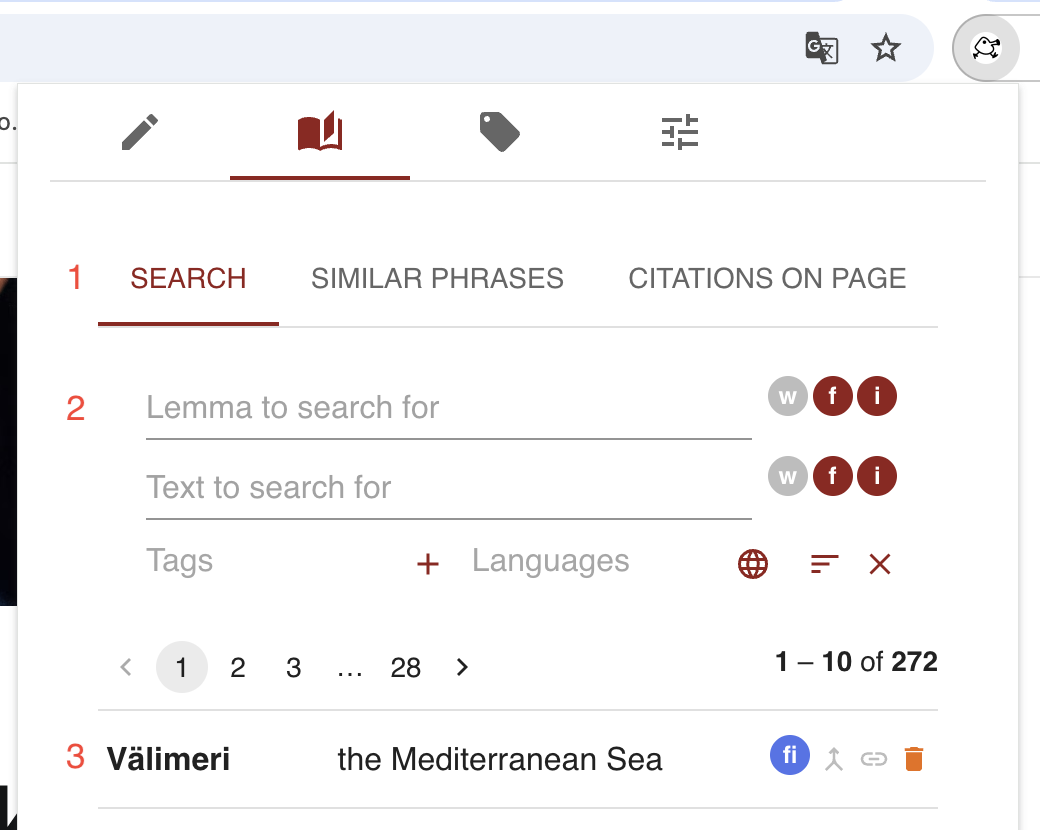
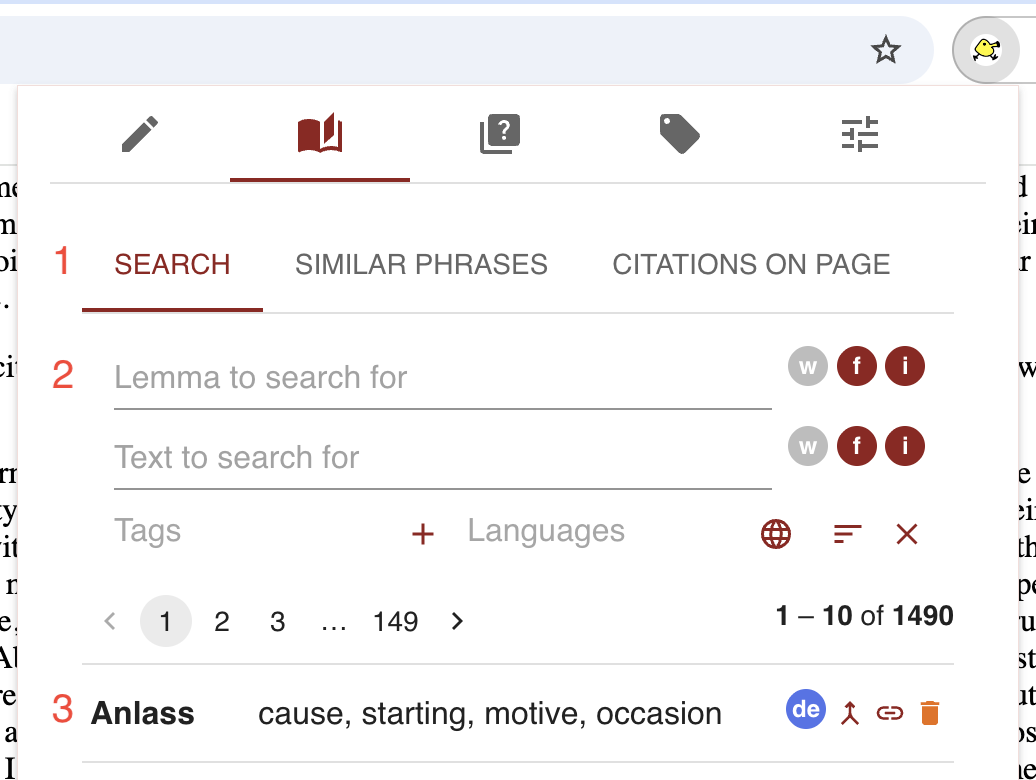
added yet more documentation

diff --git a/docs/index.html b/docs/index.html
@@ -91,6 +91,15 @@
       margin-left: 2px;
     }
 
+    dl {
+      margin-left: 1rem;
+
+      dt {
+        color: var(--secondary-dark);
+        font-weight: 600;
+      }
+    }
+
     code {
       background-color: bisque;
     }
@@ -692,8 +701,8 @@
       <p>
         The citation context is shown for the displayed citation. Its parts
         are enumerated in <a href="#note-figure">the figure</a>. These are the
-        title (7), the date the citation was recorded (8), the URL (9), and
-        the phrase itself and its surrounding text (10).
+        title (8), the date the citation was recorded (9), the URL (10), and
+        the phrase itself and its surrounding text (11).
       </p>
       <p>
         The title, date, and URL are displayed in abbreviation. If you hover
@@ -748,20 +757,8 @@
         <a href="#dictionary-figure">the figure</a>, there are three manners
         in which one may browse the dictionary (1): ad hoc search, by
         similarity to the current citation, and by page (URL). Every manner of
-        search has a form (2). Every search results in zero or more notes (3).
-      </p>
-      <p>
-        Each note in turn is represented by its lemma (4), its gloss (5),
-        its language (6), and some actions one may take: merge the note with
-        the current note &mdash; the note currently displayed in the
-        <a href="#note">note tab</a> &mdash; (7), link the note to the current
-        note (8), or delete the note (9).
-      </p>
-      <p>
-        If you click on a note in the dictionary, this will take you to the
-        <a href="#note">note tab</a>, where the note will be displayed. It is
-        now the current note, the note to which other notes displayed in the
-        dictionary may be merged or linked.
+        search has a form to receive the search parameters(2). Changing these parameters will cause Amanuensis to
+        execute a new search. Every search results in zero or more notes (3).
       </p>
       <figure id="results-figure">
         <img src="images/result.png" alt="a search result" />
@@ -770,19 +767,20 @@
           link; 6) delete
         </figcaption>
       </figure>
-      <h4>search results</h4>
       <p>
-        Every search produces some number of search results. These are basically
-        abbreviated notes. One may click on them to view them in full. See
-        <a href="#results-figure">the figure</a> for a sample search result.
-      </p>
-      <p>
-        In addition to the lemma, gloss, and locale, each results
-        provides a number of actions one may take: merge this note with the
-        note currently displayed in the <a href="#note">note tab</a>, link it
-        to that note, or delete it from the database. The more destructive of
+        Each note in the search results (<a href="#results-figure">the figure</a>) is in turn represented by its lemma
+        (1), its gloss (2), its language (3), and some actions one may take: merge the note with
+        the current note &mdash; the note currently displayed in the
+        <a href="#note">note tab</a> &mdash; (4), link the note to the current
+        note (5), or delete the note (6). The more destructive of
         these actions, merging and deletion, require confirmation and, in the
         case of merging, possible editing to complete.
+      </p>
+      <p>
+        If you click on a note in the dictionary, this will take you to the
+        <a href="#note">note tab</a>, where the note will be displayed. It is
+        now the current note, the note to which other notes displayed in the
+        dictionary may be merged or linked.
       </p>
       <figure id="search-figure">
         <img src="images/search.png" alt="the free search form" />
@@ -791,7 +789,7 @@
           5) fuzzy match; 6) case-insensitive; 7) sort order; 8) clear form
         </figcaption>
       </figure>
-      <h4>search</h4>
+      <h4>free-form search</h4>
       <p>
         The search tab labeled simply "search" is the most flexible, and
         consequently the most complex. See
@@ -871,20 +869,45 @@
       </figure>
       <p>
         Amanuensis must apply a string similarity metric to do a phrase
-        similarity search. There are many of these with different virtues and
-        flaws. Some work better than others for a given language. For this
-        reason, the simularity metric is
-        <a href="#distance-metrics" title="how to configure the string similarity metric">configurable</a> and
-        selectable in the similar phrase search form (<a href="#similarity-metric-figure">the figure</a>). Each of the
-        metrics is marked with a distinctive color so you can see what metric is in use when the dropdown is not open.
+        similarity search. Because words can be similar in different ways, Amanuensis provides four metrics (<a
+          href="#similarity-metric-figure">the figure</a>). They are
+      </p>
+      <dl>
+        <dt>Jaro-Winkler</dt>
+        <dd><a href="https://en.wikipedia.org/wiki/Jaro%E2%80%93Winkler_distance">Jaro-Winkler</a> prioritizes changes
+          at the <b>beginning</b> of the word. Jaro-Winkler will find <i>cat</i> more
+          similar to <i>cats</i> than <i>scat</i>. Because most languages prefer suffixes to prefixes for inflectional
+          changes like the <i>-s</i> that marks <i>cats</i> as plural, Jaro-Winkler is generally a pretty good default.
+          There are languages, though, like the Bantu languages, that use inflectional prefixes &mdash; <i>watu</i> is
+          the plural of <i>mtu</i>, &ldquo;person&rdquo;. For these see reverse Jaro-Winkler.</dd>
+        <dt>longest common substring</dt>
+        <dd>If you're dealing with compounds or phrases, not inflection, you want to prioritize phrases that embed other
+          phrases. For these, <a href="https://en.wikipedia.org/wiki/Longest_common_subsequence">longest common
+            substring</a> is your friend.</dd>
+        <dt>Levenshtein</dt>
+        <dd>The <a href="https://en.wikipedia.org/wiki/Levenshtein_distance">Levenshtein</a> algorithm measures the
+          number of edits required to convert one phrase into another. The
+          beginning and end don't matter. Similar sequences don't matter. Levenshtein tends to consider words of similar
+          length to be more similar because more edits are required to add or subtract letters to change a phrase's
+          length. The Levenshtein similarity metric is probably the least useful, but it may turn up easily confused
+          words.</dd>
+        <dt>reverse Jaro-Winkler</dt>
+        <dd>Reverse Jaro-Winkler is just Jaro-Winkler applied backwards. It considers changes at the <b>end</b> of the
+          words more important. It will find <i>scat</i> to be more similar to <i>cat</i> than <i>cats</i>. This
+          similarity metric may be useful for Bantu languages that use inflectional prefixes. It is also useful for
+          finding words with similar suffixes.</dd>
+      </dl>
+      <p>
+        Each of the metrics is marked with a distinctive color so you can see what metric is in use when the dropdown is
+        not open.
       </p>
       <p>
         One could in principle rank all notes for their similarity to a given
         phrase. In practice, however, there is little value in looking too far
         down the list. For this reason, the maximum number of results
         displayed in a similarity search is
-        <a href="#max-similars" title="how to configure the maximum number of similar phrases displayed">configurable as
-          well</a>.
+        <a href="#max-similars"
+          title="how to configure the maximum number of similar phrases displayed">configurable</a>.
       </p>
       <figure id="on-page-figure">
         <img src="images/on-page.png" alt="form for searching for notes at a given URL" />
